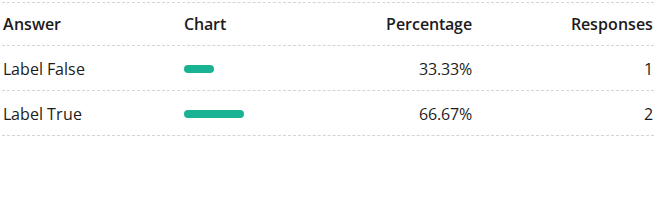
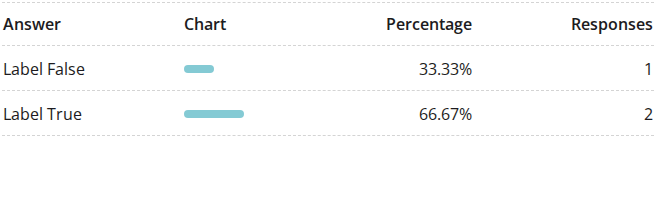
Merge pull request #786 from surveyjs/V3-fix-styles
V3 fix styles [library:11355]

Pull request: V3 fix styles [library:11355]

Changed region(s): [[0.2744, 0.54, 0.3963, 0.6], [0.2744, 0.3, 0.3354, 0.39]]

diff --git a/src/utils/utils.ts b/src/utils/utils.ts
@@ -80,17 +80,3 @@ export function getFormattedValueTicks(maxValue: number): { tickvals: number[], 
   const ticktext = tickvals.map(t => formatLargeNumber(t));
   return { tickvals, ticktext };
 }
-
-export function mergeObjects(dest:any, ...sources:Array<any>):any {
-  sources.forEach(source => {
-    if(!source) return;
-    Object.keys(source).forEach(key=>{
-      if(typeof source[key] == "object" && source[key] !== null && !Array.isArray(source[key])) {
-        dest[key] = mergeObjects(dest[key] ?? {}, source[key]);
-      } else {
-        dest[key] = source[key];
-      }
-    });
-  });
-  return dest;
-}

diff --git a/src/tables/tabulator.ts b/src/tables/tabulator.ts
@@ -1,6 +1,6 @@
 import { GetDataFn, Table, TableRow } from "./table";
 import { ITableOptions } from "./table-interfaces";
-import { SurveyModel, Event, Question, ItemValue, ITheme } from "survey-core";
+import { SurveyModel, Event, Question, ItemValue, ITheme, mergeObjects } from "survey-core";
 import { ColumnDataType, IColumn, IColumnData, QuestionLocation } from "./config";
 import { DocumentHelper } from "../utils/documentHelper";
 import { localization } from "../localizationManager";
@@ -804,8 +804,15 @@ export class Tabulator extends Table {
     this._appliedTheme = undefined;
   }
 
-  public applyTheme(theme: ITheme): void {
-    this.theme.setTheme(theme);
+  /**
+   * Applies a theme to the Dashboard.
+   * @param theme An [`ITheme`](https://surveyjs.io/form-library/documentation/api-reference/itheme) object with theme settings.
+   * @param baseTheme An optional [`ITheme`](https://surveyjs.io/form-library/documentation/api-reference/itheme) object used as the base theme. When specified, it is deep-merged with `theme`, and the merged result is applied.
+   */
+  public applyTheme(theme: ITheme, baseTheme?: ITheme): void {
+    if(!theme && !baseTheme) return;
+    const themeToApply = baseTheme ? mergeObjects({}, baseTheme, theme) : theme;
+    this.theme.setTheme(themeToApply);
     this._appliedTheme = this.theme;
     if(this.renderResult) {
       this._appliedTheme.applyThemeToElement(this.renderResult);

diff --git a/src/visualizerBase.ts b/src/visualizerBase.ts
@@ -1,4 +1,4 @@
-import { Question, QuestionCommentModel, Event, settings, hasLicense, ITheme } from "survey-core";
+import { Question, QuestionCommentModel, Event, settings, hasLicense, ITheme, mergeObjects } from "survey-core";
 import { DataProvider, GetDataFn } from "./dataProvider";
 import { VisualizerFactory } from "./visualizerFactory";
 import { VisualizationManager } from "./visualizationManager";
@@ -965,10 +965,13 @@ export class VisualizerBase implements IDataInfo {
 
   /**
    * Applies a theme to the Dashboard.
-   * @param theme An `ITheme` object that defines visual settings.
+   * @param theme An [`ITheme`](https://surveyjs.io/form-library/documentation/api-reference/itheme) object with theme settings.
+   * @param baseTheme An optional [`ITheme`](https://surveyjs.io/form-library/documentation/api-reference/itheme) object used as the base theme. When specified, it is deep-merged with `theme`, and the merged result is applied.
    */
-  public applyTheme(theme: ITheme): void {
-    this.theme.setTheme(theme);
+  public applyTheme(theme: ITheme, baseTheme?: ITheme): void {
+    if(!theme && !baseTheme) return;
+    const themeToApply = baseTheme ? mergeObjects({}, baseTheme, theme) : theme;
+    this.theme.setTheme(themeToApply);
     this._appliedTheme = this.theme;
     if(this.renderResult) {
       this._appliedTheme.applyThemeToElement(this.renderResult);

diff --git a/src/theme.ts b/src/theme.ts
@@ -1,7 +1,6 @@
-import { ensureBaseThemeStyles, ITheme, getRGBaColor, BaseTheme } from "survey-core";
+import { ensureBaseThemeStyles, ITheme, getRGBaColor, BaseTheme, mergeObjects } from "survey-core";
 import { DefaultLight } from "survey-core/themes";
 import { DocumentHelper } from "./utils/documentHelper";
-import { mergeObjects } from "./utils/utils";
 
 export interface FontSettings {
   family: string;

diff --git a/src/statistics-table.scss b/src/statistics-table.scss
@@ -75,5 +75,5 @@
   align-items: flex-start;
   height: var(--sjs2-size-x100, 8px);
   border-radius: var(--sjs2-radius-component-track, 9999px);
-  background: var(--sjs2-color-bg-brand-primary, #19b394);
+  background: var(--sjs2-color-data-chart-bg-color-1, #84cad4);
 }